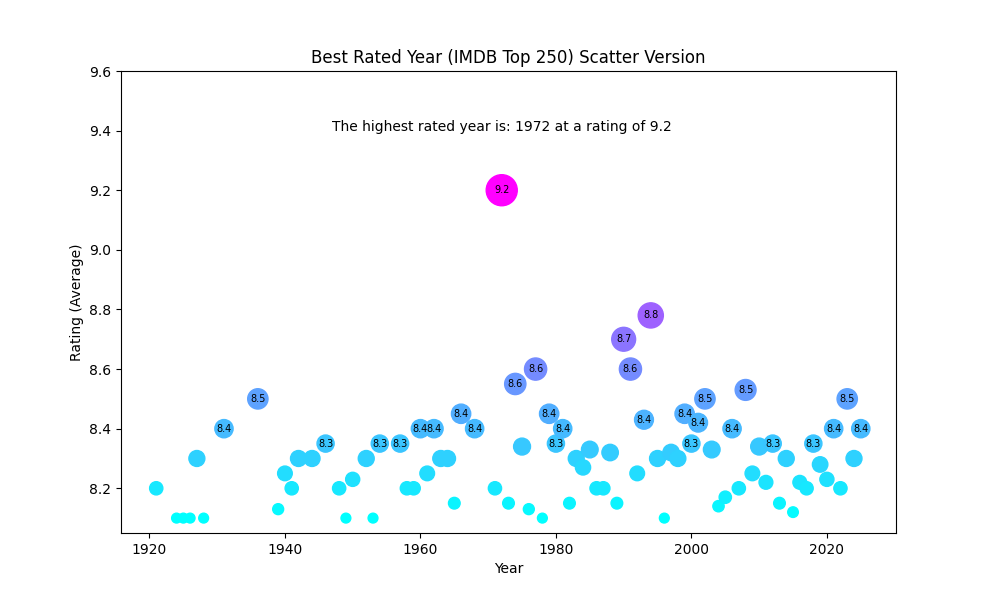
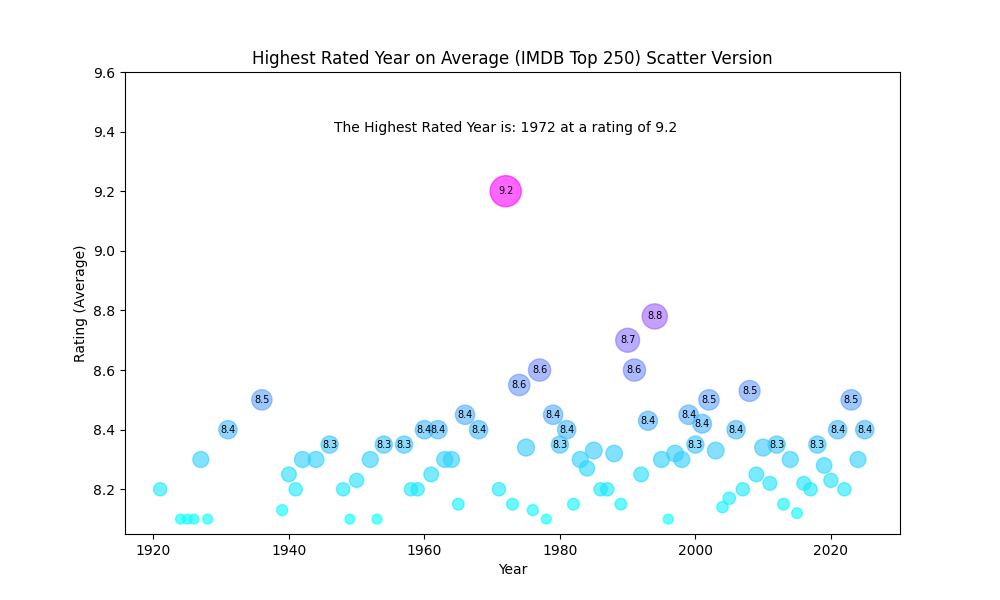
Visual updates for all, code cleanup and documentation

diff --git a/imdb_top_movies/decadeavg_vs_hl_movies.py b/imdb_top_movies/decadeavg_vs_hl_movies.py
@@ -1,0 +1,123 @@
+# Author Name: Scoey Derus
+# Purpose: Using Kaggle's 250 top IMDB movies, I have generated 3 (Really 1) bar graph depciting the average rating of the top 250
+# movies by per decade, along with the decades single highest, and lowest rated best movie out of the top 250 movies
+
+import pandas as pd                  # Using dataframe
+import matplotlib.pyplot as plt      # Used for visual graphs
+import matplotlib.cm as cm           # Used for normalizing colors and creating a cmap for the bars
+from matplotlib.patches import Patch # Used to remove certain elements from the legend that added nothing of importance
+
+imdb_table = pd.read_csv('./imdb_top_movies/imdb_top_movies.csv',index_col=0)   # Read in the csv file for data
+
+plt.figure(figsize=(11,7))  # Set size of window
+
+cleaned_table = imdb_table.loc[:,['Year', 'Rating']]    # Clean data for whats needed
+
+cleaned_table['Decade'] = cleaned_table['Year'].map(lambda x: (x // 10) * 10) # Create decade column
+
+max_rating_in_decade = cleaned_table.groupby('Decade')['Rating'].max()  # Get a series of the highest rated movie in each decade
+min_rating_in_decade = cleaned_table.groupby('Decade')['Rating'].min()  # Get a series of the lowest best rated movie in each decade
+count_of_movies = cleaned_table.groupby('Decade')['Rating'].count()     # Get a series of the counts of movies per decade  
+
+cleaned_table = cleaned_table.groupby('Decade',as_index=False)['Rating'].mean().round(2)    # Get rid of year, replace w/ decade and mean rating
+cleaned_table['HRM'] = cleaned_table['Decade'].map(max_rating_in_decade)                    # Create highest rated movie column
+cleaned_table['LRM'] = cleaned_table['Decade'].map(min_rating_in_decade)                    # Create lowest rated movie column
+cleaned_table['MovieCount'] = cleaned_table['Decade'].map(count_of_movies)                  # Create count column
+
+min_rating = min(cleaned_table['LRM'])      # Used for zooming
+max_rating = max(cleaned_table['HRM'])      # Used for zooming
+
+# Coloring Using normalized versions of ratings
+cmap = plt.get_cmap('magma')    # Choose color map
+
+my_norm = cm.colors.Normalize(vmin=cleaned_table['MovieCount'].min(),
+                              vmax=cleaned_table['MovieCount'].max()) # Normalize 0-1, lowest is 0.000, max is 1.000 all fall between
+
+colors=cmap(my_norm(cleaned_table['MovieCount'])) # Normalize movie count and make a cmap of the normalization, cmap used for bar colors
+
+# Make a color bar - need a scalarmapable under matplotlibs color
+sm = cm.ScalarMappable(cmap=cmap,norm=my_norm)      # Create ScalarMappable object based on cmap and norms created above
+cbar = plt.colorbar(sm, orientation='horizontal',alpha=0.8)   # Pass in ScalarMappable object to pyplots colorbar, put it below graph for readability
+cbar.set_label('Amount of Movies in Decade')        # Give label to color bar to know what it means
+
+# NOTE: NOT stacking bars, putting them in front of each other because the average is in the middle and the highest and lowest will 
+# ALWAYS be behind and infront of the average respectively
+highest_movie_bar = plt.bar(cleaned_table['Decade'],                # Decade (X-Coord)
+                            cleaned_table['HRM'],                   # Highest Rated Movie (Y-Coord)
+                            color=colors,                           # Colors set to normalized cmap
+                            width=8,                                # 10 decades, 8 width is visually appealing
+                            zorder=0,                               # In back
+                            alpha = 0.3,                           # lowest alpha in back for visual
+                            edgecolor='black',                      # Black edge around the bars
+                            label='Highest Rated Movie in Decade')  # Label for legend
+
+avg_decade_bar = plt.bar(cleaned_table['Decade'],
+                         cleaned_table['Rating'],
+                         color=colors,
+                         width=8,
+                         zorder=1,                          # In middle
+                         alpha=0.3,                         # Medium alpha in middle for visual
+                         edgecolor='black',
+                         label='Average Rating of Decade')
+
+lowest_movie_bar = plt.bar(cleaned_table['Decade'],
+                           cleaned_table['LRM'],
+                           color=colors,
+                           width=8,
+                           zorder=2,                             # In front
+                           alpha=0.5,                            # Highest alpha in front to show colorbar
+                           edgecolor='black',
+                           label='Lowest Rated Movie in Decade')
+
+# Add text to display value/height of bars
+for bar in avg_decade_bar:
+    height = bar.get_height()               
+    plt.text(
+        bar.get_x() + bar.get_width() / 2,  # 1) Get x gives leftmost edge, adding bar width / 2 puts it towards middle
+        height,                             # 2) Y coordinate for text
+        height,                             # 3) Actual text being displayed
+        ha='center'                         # Horizontal alignment to match middle of bar
+    )
+
+for bar in highest_movie_bar:
+    height = bar.get_height()
+    plt.text(
+        bar.get_x() + bar.get_width() / 2,
+        height,
+        height,
+        ha='center'
+    )
+
+for bar in lowest_movie_bar:
+    height = bar.get_height()
+    plt.text(
+        bar.get_x() + bar.get_width() / 2,
+        height,
+        height,
+        ha='center'
+    )
+
+plt.ylim(min_rating - .25, max_rating + .05)    # Zooming done here, want lowest of low bars, highest of high bars
+
+plt.ylabel('Rating')    # Label Axes
+plt.xlabel('Decade')
+
+# Uses matplotlibs.patches to remove color bar from legend, text is visually simple and understandable
+legend_elements = [
+    Patch(facecolor='none', edgecolor='none', label='Highest Rated Movie in Decade'), # Remove edge of color box and the color itself, keep label
+    Patch(facecolor='none', edgecolor='none', label='Average Rating of Decade'),
+    Patch(facecolor='none', edgecolor='none', label='Lowest Rated Movie in Decade')
+]
+
+plt.legend(handles=legend_elements, # Tell legend to not show colorbox at all
+           loc='upper left',        # Moves to upper left of graph
+           handlelength=0,          # Without these 4 **Kwarggs set, color box is gone but padding is still visible, remove it
+           handleheight=0,
+           handletextpad=0,
+           borderaxespad=0,
+           edgecolor='black',
+           )
+
+plt.title("Comparing Highest & Lowest Rated Movie \nof a Decade to Decade Averages")
+
+plt.show()

diff --git a/imdb_top_movies/highest_rated_decades_weighted.py b/imdb_top_movies/highest_rated_decades_weighted.py
@@ -12,7 +12,7 @@ plt.figure(figsize=(10,8))
 #pd.set_option('display.max_rows',None)         # commented out, pandas does not display full table by default must set option
 #pd.set_option('display.max_columns',None)
 
-imdb_table = pd.read_csv('./imdb_top_movies.csv', index_col = 0)             # DataFrame created from .csv file
+imdb_table = pd.read_csv('./imdb_top_movies/imdb_top_movies.csv', index_col = 0)             # DataFrame created from .csv file
 decade = imdb_table.loc[:,['Year','Rating']]                   # Drop columns we don't need (DataFrame type)
                                                                              # DataFrame supports slicing via loc and iloc
 decade['Decade'] = (decade['Year'] // 10) * 10   # Create a decade column | (1992 // 10 = 199.2 rounded down) * 10 = 1990
@@ -35,7 +35,7 @@ my_norm = cm.colors.Normalize(vmin=counts['Rating'].min(),vmax=counts['Rating'].
 
 # Create a colorbar THIS DOES NOT HAVE TO DO WITH COLORS OF BARS
 sm = cm.ScalarMappable(cmap=custom_cmap,norm=my_norm)  # Use above variables for custom colors
-cbar = plt.colorbar(sm,orientation='horizontal')       # Create the colorbar using our custom ScalarMappable object
+cbar = plt.colorbar(sm,orientation='horizontal',alpha=0.6)       # Create the colorbar using our custom ScalarMappable object
 cbar.set_label("Number of Movies in Decade")           # Give colorbar a label
 
 colors = custom_cmap(avg_rating_per_decade['ColorMap'])# Give bargraph colors based on normalized weight
@@ -43,7 +43,8 @@ bars = plt.bar(avg_rating_per_decade['Decade'],        # Plot bar graph, (decade
                avg_rating_per_decade['Rating'],     
                width=8,                                # Width of bars set to 8 for visuals
                color=colors,                           # Set the colors of bars to custom colormap
-               edgecolor='black')                      # Black border around bars
+               edgecolor='black',                      # Black border around bars
+               alpha=0.6)
 
 # Visual zooming
 min_rating = min(avg_rating_per_decade['Rating'])
@@ -51,7 +52,7 @@ max_rating = max(avg_rating_per_decade['Rating'])
 plt.ylim(min_rating - .15, max_rating + .05)
 
 # Titles and axes labels
-plt.title("Highest Rated Decade (Top 250 IMBD Movies)\n(Weighted by Number of Movies)")
+plt.title("Highest Rated Decade (Top 250 IMBD Movies)\n(Weighed by Number of Movies)")
 plt.xlabel("Decade")
 plt.ylabel("Average Rating (Bar Chart)")
 
@@ -61,12 +62,12 @@ plt.ylabel("Average Rating (Bar Chart)")
 # Y = mx + b, m is the coefficient (slope), b is the y-intercept/constant (tells you Y when X is 0)
 coeff_weighted = np.polyfit(avg_rating_per_decade['Decade'],   # X-Coord
                           avg_rating_per_decade['Rating'],     # Y-Coord
-                          1,                                   # 1 = Linear (answers overall), 2 = Quadratic (overall but slight curvature) # Deg of polynomial
+                          2,                                   # 1 = Linear (answers overall), 2 = Quadratic (overall but slight curvature) # Deg of polynomial
                           w=avg_rating_per_decade['Weight'])   # Add weight to the polynomial, pulls the trendline towards higher weights (1990s - 2010s)
 
 coeff_unweighted = np.polyfit(avg_rating_per_decade['Decade'], # X-Coord
                               avg_rating_per_decade['Rating'], # Y-Coord
-                              1)                               # 1 = Linear (answers overall), 2 = Quadratic (overall but slight curvature) # Deg of polynomial
+                              2)                               # 1 = Linear (answers overall), 2 = Quadratic (overall but slight curvature) # Deg of polynomial
 
 weighted_trend_line = np.poly1d(coeff_weighted)     # Represents equation,TYPE = numpy.poly1d, weighted = 0.0004431 x + 7.43
                                                     # wtl(avg_rating_per_decade['Decade']) 0.0004431 (decade) + 7.43 = x
@@ -82,20 +83,23 @@ unweighted_trend_line = np.poly1d(coeff_unweighted) # 0.001145 x + 6.04
 plt.plot(avg_rating_per_decade['Decade'], 
          unweighted_trend_line(avg_rating_per_decade['Decade']), # Pass in all the decades to the trend line 
          label='Unweighted', 
-         color='green',
-         linestyle='--')
+         color='red',
+         linestyle='--',
+         alpha=0.75)
 
 plt.plot(avg_rating_per_decade['Decade'],
           weighted_trend_line(avg_rating_per_decade['Decade']),  # Pass in all the decades to the trend line
           label='Weighted', 
-          color = 'red',
-          linestyle='--')
+          color = 'blue',
+          linestyle='--',
+          alpha=0.75)
 
 for bar in bars:                                 # in order to get text, we need to go through all bar objects (matplotlib.patches.Rectangle)
     plt.text(bar.get_x() + bar.get_width() / 2,  # X-coord of left edge of bar, get_width / 2 gives half width which is distance from left edge to center of bar
-             bar.get_height() + 0.02,            # Y-coord (Verticality)
+             bar.get_height(),            # Y-coord (Verticality)
              bar.get_height(),                   # What is displayed
-             ha='center')                        # Center the text (horizontal alignment)
+             ha='center',
+             fontweight='bold')                        # Center the text (horizontal alignment)
 
 plt.legend(framealpha = 0.4, loc='upper left') # Give opacity to the legend 
 plt.show()                                     # Show window

diff --git a/imdb_top_movies/highest_rated_years_bubble.py b/imdb_top_movies/highest_rated_years_bubble.py
@@ -45,19 +45,20 @@ scatter = plt.scatter(
     average_rating_per_year['Rating'],
     s=average_rating_per_year['Weight'],
     c=average_rating_per_year['Weight'],
-    cmap='cool')
+    cmap='cool',
+    alpha=0.6)
 
 plt.ylim(min_rating - 0.05, max_rating + 0.4) # Used for our zooming
 plt.xlabel('Year')                            # Setting x-axis label
 plt.ylabel('Rating (Average)')                # Setting y-axis label
-plt.title('Best Rated Year (IMDB Top 250) Scatter Version') # Setting the title of the scatter plot
+plt.title('Highest Rated Year on Average (IMDB Top 250) Scatter Version') # Setting the title of the scatter plot
 
 # Create our text to answer the question "What was the highest rated year on average"
 # (x,y,text,horizontal alignment)
 plt.text(
     highest_rated_year,
     max_rating + 0.2,
-    "The highest rated year is: " + str(highest_rated_year) + " at a rating of " + str(highest_rating), 
+    "The Highest Rated Year is: " + str(highest_rated_year) + " at a rating of " + str(highest_rating), 
     ha='center')
 
 # We want to add text to the bubbles that are of a certain size, cannot loop thru like a bar graph, must iterate over the DataFrame
